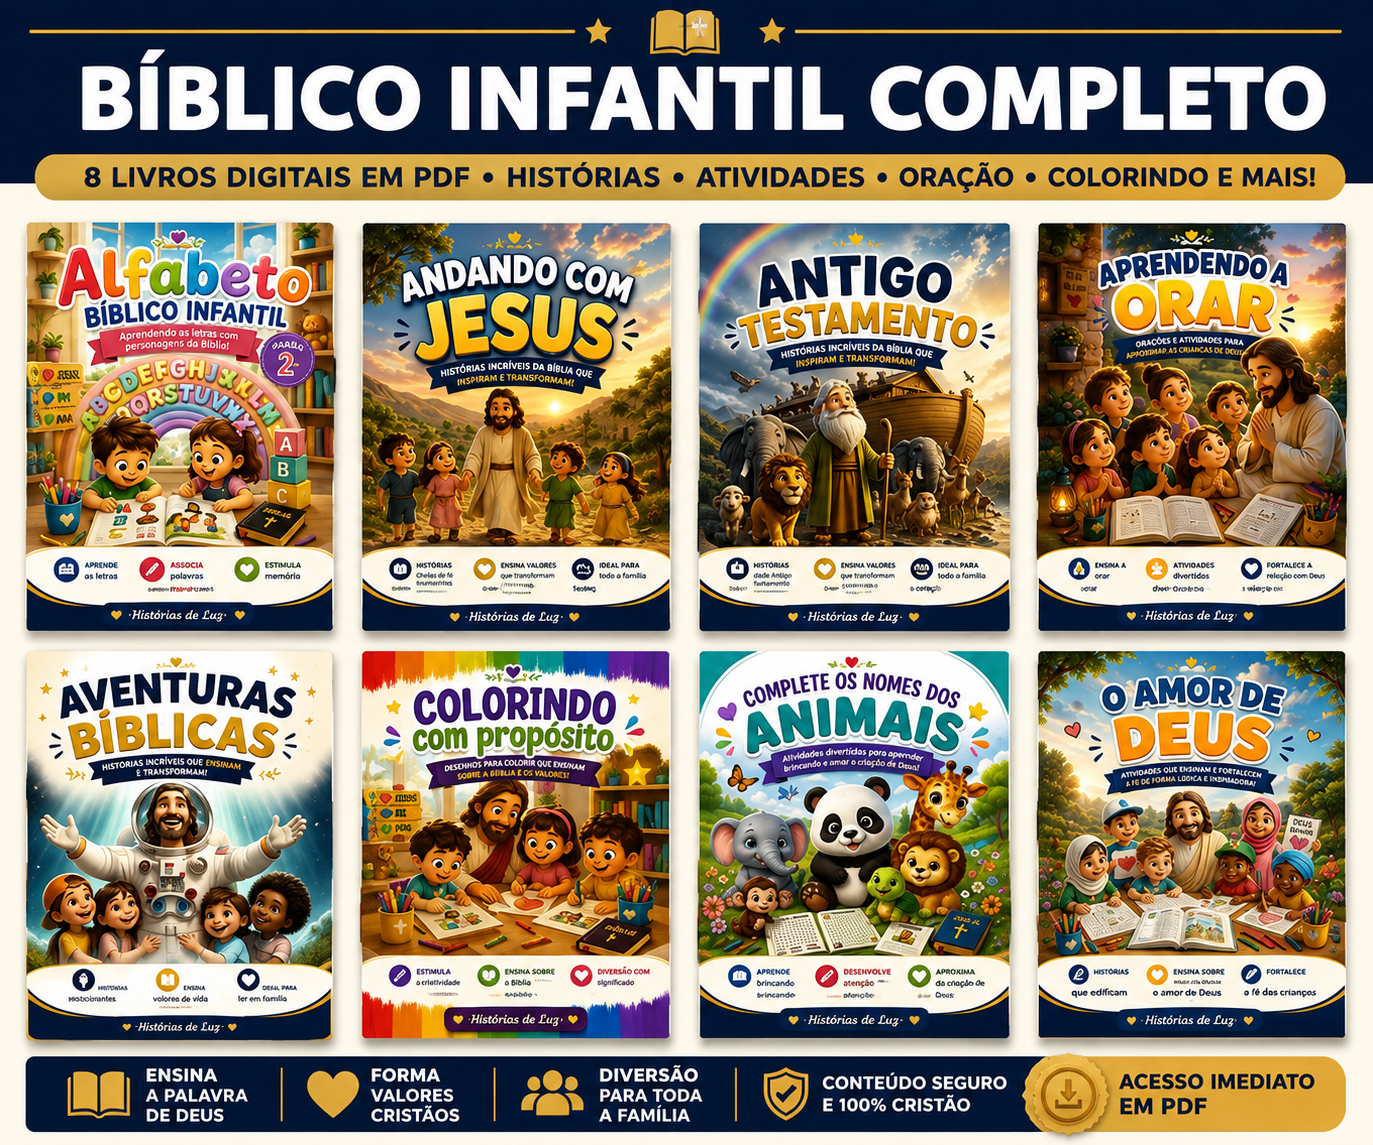
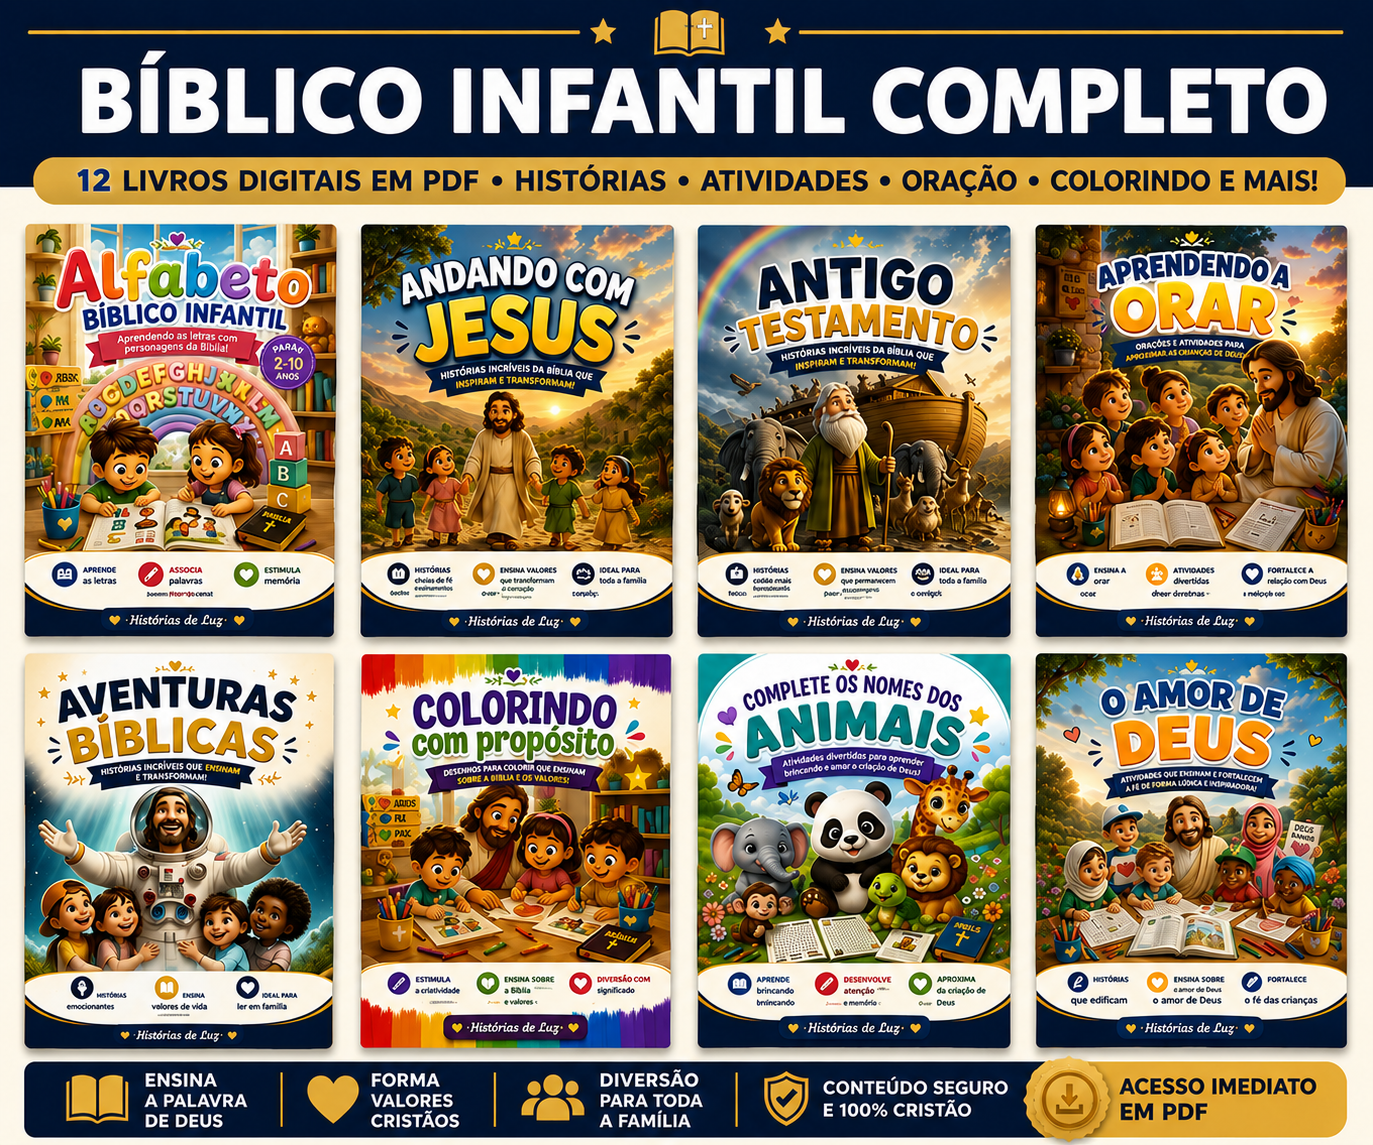
atualização geral

diff --git a/src/components/Hero.tsx b/src/components/Hero.tsx
@@ -1,16 +1,17 @@
 import { BookOpen, Download, Printer, Shield, Star, Check, Users, BadgeCheck } from 'lucide-react';
+import ProductCarousel from "./ProductCarousel";
 
 export default function Hero() {
   return (
     <section
       id="inicio"
-      className="relative overflow-hidden bg-gradient-to-b from-cream-100 via-cream-50 to-white pt-24 pb-20 sm:pt-28 lg:pt-36"
+      className="relative overflow-hidden bg-gradient-to-b from-cream-100 via-cream-50 to-white pt-14 pb-6 sm:pt-28 lg:pt-36"
     >
       {/* Decorative blobs */}
       <div className="pointer-events-none absolute -top-20 -right-20 h-72 w-72 rounded-full bg-primary-200/40 blur-3xl" />
       <div className="pointer-events-none absolute top-40 -left-20 h-64 w-64 rounded-full bg-accent-200/40 blur-3xl" />
 
-      <div className="container-max relative grid items-center gap-12 lg:grid-cols-2">
+      <div className="container-max relative grid items-center gap-4 lg:grid-cols-2 lg:gap-12">
         {/* Text */}
         <div className="animate-fade-in-up text-center lg:text-left">
           <span className="inline-flex items-center gap-2 rounded-full bg-success-100 px-4 py-2 text-sm font-semibold text-success-700">
@@ -18,12 +19,12 @@ export default function Hero() {
             DOWNLOAD IMEDIATO · GARANTIA DE 7 DIAS
           </span>
 
-          <div className="mt-4 inline-flex items-center gap-2 rounded-full bg-primary-50 px-4 py-2 text-sm font-semibold text-primary-700 ring-1 ring-primary-200">
-            <Users className="h-4 w-4" />
-            Mais de 1297 famílias atendidas
-          </div>
+          <div className="mt-4 hidden items-center gap-2 rounded-full bg-primary-50 px-4 py-2 text-sm font-semibold text-primary-700 ring-1 ring-primary-200 lg:inline-flex">
+          <Users className="h-4 w-4" />
+             Mais de 1297 famílias atendidas
+         </div>
 
-          <h1 className="mt-6 font-display text-4xl font-bold leading-tight text-slate-800 sm:text-5xl lg:text-6xl">
+          <h1 className="mt-4 font-display text-4xl font-bold leading-tight text-slate-800 sm:text-5xl lg:mt-6 lg:text-6xl">
             Kit Bíblico Infantil{' '}
             <span className="relative inline-block">
               <span className="relative z-10 text-primary-600">Completo</span>
@@ -31,15 +32,28 @@ export default function Hero() {
             </span>
           </h1>
 
-          <p className="mt-6 text-lg leading-relaxed text-slate-600 lg:text-xl">
+           {/* Mobile product image */}
+
+<div className="mt-3 lg:hidden">
+  <div className="mx-auto max-w-[290px] overflow-hidden rounded-2xl shadow-xl ring-4 ring-white">
+    <img
+      src="/img1.png"
+      alt="Kit Bíblico Infantil"
+      className="w-full object-cover"
+      loading="eager"
+    />
+  </div>
+</div>
+
+          <p className="mt-4 text-lg leading-relaxed text-slate-600 lg:text-xl">
             Ensine a Palavra de Deus de forma divertida, educativa e longe das telas.
             Receba <strong className="text-slate-800">12 livros digitais</strong> com mais de{' '}
-            <strong className="text-slate-800">400 atividades</strong> para crianças de 3 a 10 anos.
+            <strong className="text-slate-800">400 atividades</strong> para crianças de 3 a 15 anos.
           </p>
 
           {/* Price */}
-          <div className="mt-8 flex items-center justify-center gap-4 lg:justify-start">
-            <span className="text-lg text-slate-400 line-through">De R$ 97,00</span>
+          <div className="mt- flex items-center justify-center gap-4 lg:justify-start">
+            <span className="text-lg text-slate-400 line-through">De R$ 57,90</span>
             <span className="text-lg text-slate-500">por apenas</span>
             <span className="font-display text-4xl font-bold text-primary-600">R$ 9,90</span>
           </div>
@@ -86,46 +100,9 @@ export default function Hero() {
           </div>
         </div>
 
-        {/* Image */}
-        <div className="relative animate-fade-in">
-          <div className="relative mx-auto max-w-md lg:max-w-none">
-            {/* Main image */}
-            <div className="overflow-hidden rounded-3xl shadow-2xl shadow-slate-900/20 ring-8 ring-white">
-              <img
-                src="/img1.png"
-                alt="Crianças lendo livros bíblicos"
-                className="h-full w-full object-cover"
-                loading="eager"
-              />
-            </div>
-
-            {/* Floating card 1 */}
-            <div className="absolute -left-3 top-[400x] animate-float rounded-2xl bg-white p-2 shadow-xl shadow-slate-900/10 sm:-left-8">
-              <div className="flex items-center gap-3">
-                <div className="flex h-10 w-10 items-center justify-center rounded-xl bg-primary-100">
-                  <BookOpen className="h-5 w-5 text-primary-600" />
-                </div>
-                <div>
-                  <p className="font-display text-x1 font-bold text-slate-800">12</p>
-                  <p className="text-xs text-slate-500">Livros digitais</p>
-                </div>
-              </div>
-            </div>
-
-            {/* Floating card 2 */}
-            <div className="absolute -bottom-20 -right-4 animate-float rounded-2xl bg-white p-2 shadow-xl shadow-slate-900/10 sm:-right-8" style={{ animationDelay: '1s' }}>
-              <div className="flex items-center gap-3">
-                <div className="flex h-8 w-8 translate-x-1 items-center justify-center rounded-xl bg-accent-100">
-                  <Star className="h-4 w-4 text-accent-500" />
-                </div>
-                <div>
-                  <p className="font-display text-x1 font-bold text-slate-800">+400</p>
-                  <p className="text-xs text-slate-500">Atividades</p>
-                </div>
-              </div>
-            </div>
-          </div>
-        </div>
+        {/* Product carousel */}
+        <ProductCarousel />
+        
       </div>
     </section>
   );

diff --git a/src/components/ProductCarousel.tsx b/src/components/ProductCarousel.tsx
@@ -1,0 +1,90 @@
+import { useEffect, useState } from "react";
+
+const images = [
+  "/carousel/atividade-1.png",
+  "/carousel/atividade-2.png",
+  "/carousel/atividade-3.png",
+  "/carousel/atividade-4.png",
+  "/carousel/atividade-5.png",
+  "/carousel/atividade-6.png",
+  "/carousel/atividade-7.png",
+];
+
+export default function ProductCarousel() {
+  const [current, setCurrent] = useState(0);
+
+  useEffect(() => {
+    const interval = setInterval(() => {
+      setCurrent((prev) => (prev + 1) % images.length);
+    }, 3000);
+
+    return () => clearInterval(interval);
+  }, []);
+
+  const nextSlide = () => {
+    setCurrent((prev) => (prev + 1) % images.length);
+  };
+
+  const prevSlide = () => {
+    setCurrent((prev) => (prev - 1 + images.length) % images.length);
+  };
+
+  return (
+        <section className="bg-white px-4 pt-6 pb-0">
+  <div className="mx-auto max-w-5xl text-center">
+
+    <p className="text-sm font-bold uppercase tracking-wider text-primary-500">
+      VEJA POR DENTRO
+    </p>
+
+    <h2 className="mt-3 font-display text-3xl font-bold leading-tight text-slate-800">
+      Veja algumas das atividades que você vai receber
+    </h2>
+
+    <p className="mt-3 text-base text-slate-600">
+      Atividades prontas para imprimir, brincar e aprender.
+    </p>
+
+        <div className="relative mx-auto mt-7 max-w-md overflow-hidden rounded-2xl bg-white shadow-xl ring-1 ring-slate-200">
+          <img
+            src={images[current]}
+            alt={`Atividade bíblica ${current + 1}`}
+            className="h-auto w-full object-contain"
+          />
+
+          <button
+            type="button"
+            onClick={prevSlide}
+             aria-label="Imagem anterior"
+            className="absolute left-1 top-1/2 flex h-9 w-9 -translate-y-1/2 items-center justify-center rounded-full bg-white/95 text-xl text-slate-800 shadow-md ring-1 ring-slate-200"
+             >
+  ‹
+</button>
+
+          <button
+            type="button"
+  onClick={nextSlide}
+  aria-label="Próxima imagem"
+  className="absolute right-1 top-1/2 flex h-9 w-9 -translate-y-1/2 items-center justify-center rounded-full bg-white/95 text-xl text-slate-800 shadow-md ring-1 ring-slate-200"
+          >
+            ›
+          </button>
+        </div>
+
+        <div className="mt-5 flex justify-center gap-2">
+          {images.map((_, index) => (
+            <button
+              type="button"
+              key={index}
+              onClick={() => setCurrent(index)}
+              aria-label={`Ir para imagem ${index + 1}`}
+              className={`h-2.5 w-2.5 rounded-full transition-all ${
+                current === index ? "scale-110 bg-orange-500" : "bg-slate-300"
+              }`}
+            />
+          ))}
+        </div>
+      </div>
+    </section>
+  );
+}

diff --git a/src/components/Testimonials.tsx b/src/components/Testimonials.tsx
@@ -9,22 +9,19 @@ export default function Testimonials() {
       name: 'Mariana Costa',
       role: 'Mãe da Helena, 6 anos',
       text: 'O kit transformou nossas noites em família. Minha filha adora as histórias e as atividades de colorir. Aprendeu sobre a Bíblia de um jeito que eu nunca conseguiria sozinha!',
-      avatar: 'MC',
-      color: 'bg-primary-500',
+      image: '/testimonials/mariana.jpg',
     },
     {
       name: 'Pastor João Batista',
       role: 'Igreja Batista Vida Nova',
       text: 'Uso o material na Escola Dominical e as crianças ficam encantadas. O conteúdo é bem elaborado, com atividades que prendem a atenção e ensinam de verdade.',
-      avatar: 'JB',
-      color: 'bg-accent-500',
+      image: "/testimonials/joao.jpg",
     },
     {
       name: 'Fernanda Lima',
       role: 'Professora de educação infantil',
       text: 'Como professora, recomendo demais! As atividades de alfabetização com temas bíblicos são perfeitas. As crianças aprendem a ler e a escrever enquanto conhecem a Palavra.',
-      avatar: 'FL',
-      color: 'bg-success-500',
+      image: "/testimonials/fernanda.jpg",
     },
   ];
 
@@ -58,9 +55,11 @@ export default function Testimonials() {
                 "{t.text}"
               </p>
               <div className="mt-6 flex items-center gap-3">
-                <div className={`flex h-12 w-12 items-center justify-center rounded-full ${t.color} font-display text-sm font-bold text-white`}>
-                  {t.avatar}
-                </div>
+                <img               
+                 src={t.image}
+                alt={t.name}
+                className="h-12 w-12 rounded-full object-cover ring-2 ring-white shadow-sm"
+                />
                 <div>
                   <p className="font-semibold text-slate-800">{t.name}</p>
                   <p className="text-xs text-slate-400">{t.role}</p>

diff --git a/index.html b/index.html
@@ -4,10 +4,10 @@
     <meta charset="UTF-8" />
     <link rel="icon" type="image/svg+xml" href="/vite.svg" />
     <meta name="viewport" content="width=device-width, initial-scale=1.0" />
-    <meta name="description" content="Kit Bíblico Infantil Completo - 12 livros digitais com mais de 400 atividades para crianças de 3 a 10 anos. Ensine a Palavra de Deus de forma divertida e educativa." />
+    <meta name="description" content="Kit Bíblico Infantil Completo - 12 livros digitais com mais de 400 atividades para crianças. Ensine a Palavra de Deus de forma divertida e educativa." />
     <title>Kit Bíblico Infantil Completo | 12 Livros + 400 Atividades em PDF</title>
     <meta property="og:title" content="Kit Bíblico Infantil Completo" />
-    <meta property="og:description" content="Ensine a Palavra de Deus de forma divertida, educativa e longe das telas. 12 livros digitais com mais de 400 atividades para crianças de 3 a 10 anos." />
+    <meta property="og:description" content="Ensine a Palavra de Deus de forma divertida, educativa e longe das telas. 12 livros digitais com mais de 400 atividades para crianças" />
     <meta property="og:type" content="website" />
     <link rel="preconnect" href="https://fonts.googleapis.com" />
     <link rel="preconnect" href="https://fonts.gstatic.com" crossorigin />

diff --git a/src/components/Pricing.tsx b/src/components/Pricing.tsx
@@ -6,7 +6,7 @@ export default function Pricing() {
 
   const features = [
     '12 livros digitais completos em PDF',
-    'Mais de 400 atividades para crianças de 3 a 10 anos',
+    'Mais de 400 atividades para crianças de 3 a 15 anos',
     'Histórias bíblicas ilustradas e adaptadas',
     'Atividades de colorir, jogos e quebra-cabeças',
     'Exercícios de alfabetização com temas bíblicos',
@@ -39,11 +39,11 @@ export default function Pricing() {
               {/* Price */}
               <div className="mt-8 flex flex-col items-center justify-center gap-2">
                 <div className="flex items-baseline gap-3">
-                  <span className="text-xl text-slate-400 line-through">R$ 97,00</span>
+                  <span className="text-xl text-slate-400 line-through">R$ 57,90</span>
                   <span className="font-display text-5xl font-bold text-primary-600">R$ 9,90</span>
                 </div>
                 <span className="rounded-full bg-success-100 px-4 py-1 text-sm font-semibold text-success-700">
-                  Economia de 69%
+                  Economia de 83%
                 </span>
               </div>
 

diff --git a/src/components/FAQ.tsx b/src/components/FAQ.tsx
@@ -25,7 +25,7 @@ export default function FAQ() {
     {
       question: 'Para qual idade o material é indicado?',
       answer:
-        'O Kit Bíblico Infantil foi desenvolvido para crianças de 3 a 10 anos, com atividades organizadas por níveis de dificuldade para atender diferentes faixas etárias.',
+        'O Kit Bíblico Infantil foi desenvolvido para crianças de 3 a 15 anos, com atividades organizadas por níveis de dificuldade para atender diferentes faixas etárias.',
     },
     {
       question: 'Existe garantia?',

diff --git a/src/components/Showcase.tsx b/src/components/Showcase.tsx
@@ -24,7 +24,7 @@ export default function Showcase() {
             12 livros com mais de 400 atividades
           </h2>
           <p className="mt-4 text-lg text-slate-500">
-            Um material completo e diversificado para crianças de 3 a 10 anos, organizado por temas e níveis de dificuldade.
+            Um material completo e diversificado para crianças de 3 a 15 anos, organizado por temas e níveis de dificuldade.
           </p>
         </div>
 

diff --git a/src/App.tsx b/src/App.tsx
@@ -15,8 +15,8 @@ function App() {
       <main>
         <Hero />
         <Benefits />
-        <HowItWorks />
         <Showcase />
+        <HowItWorks />
         <Testimonials />
         <Pricing />
         <FAQ />
